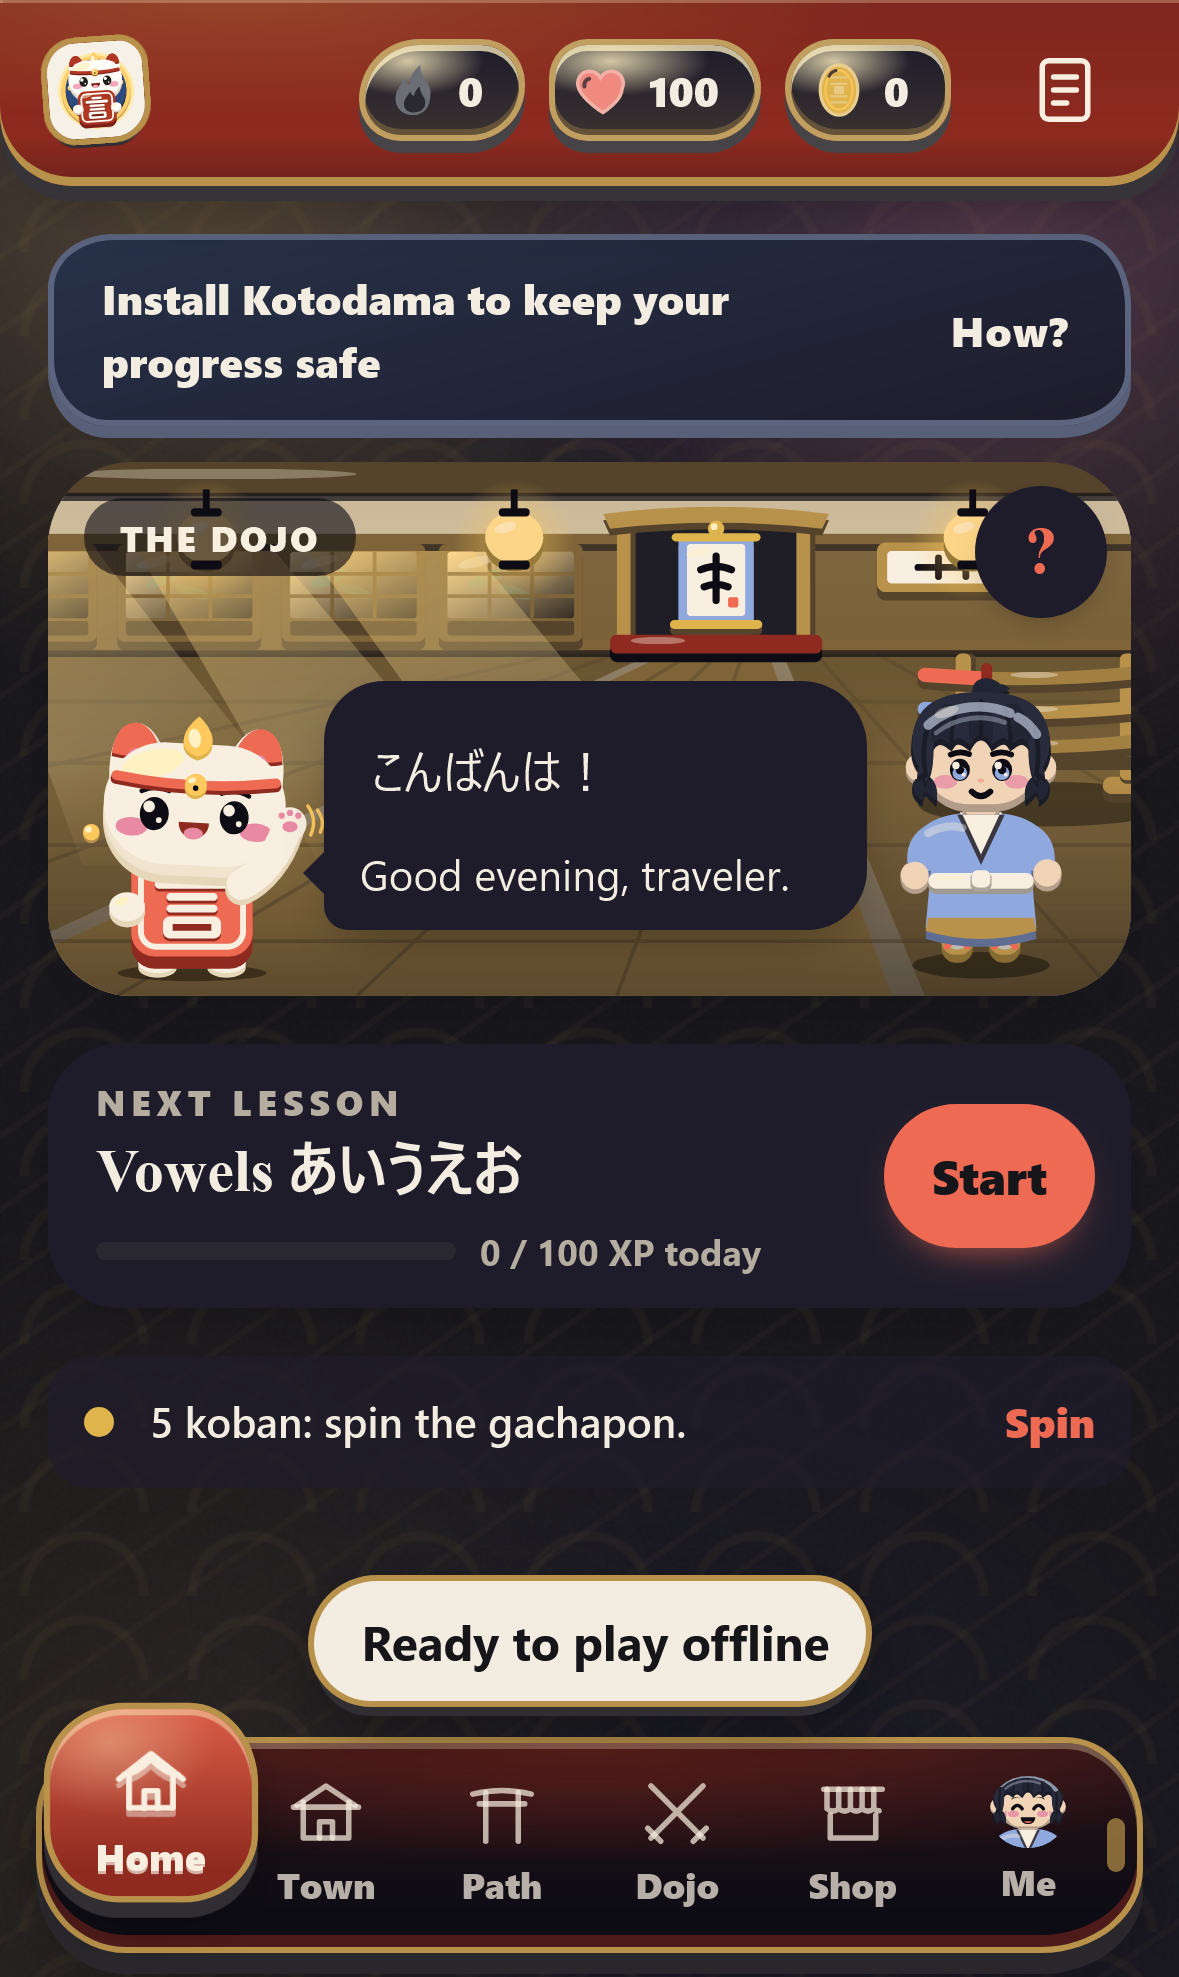
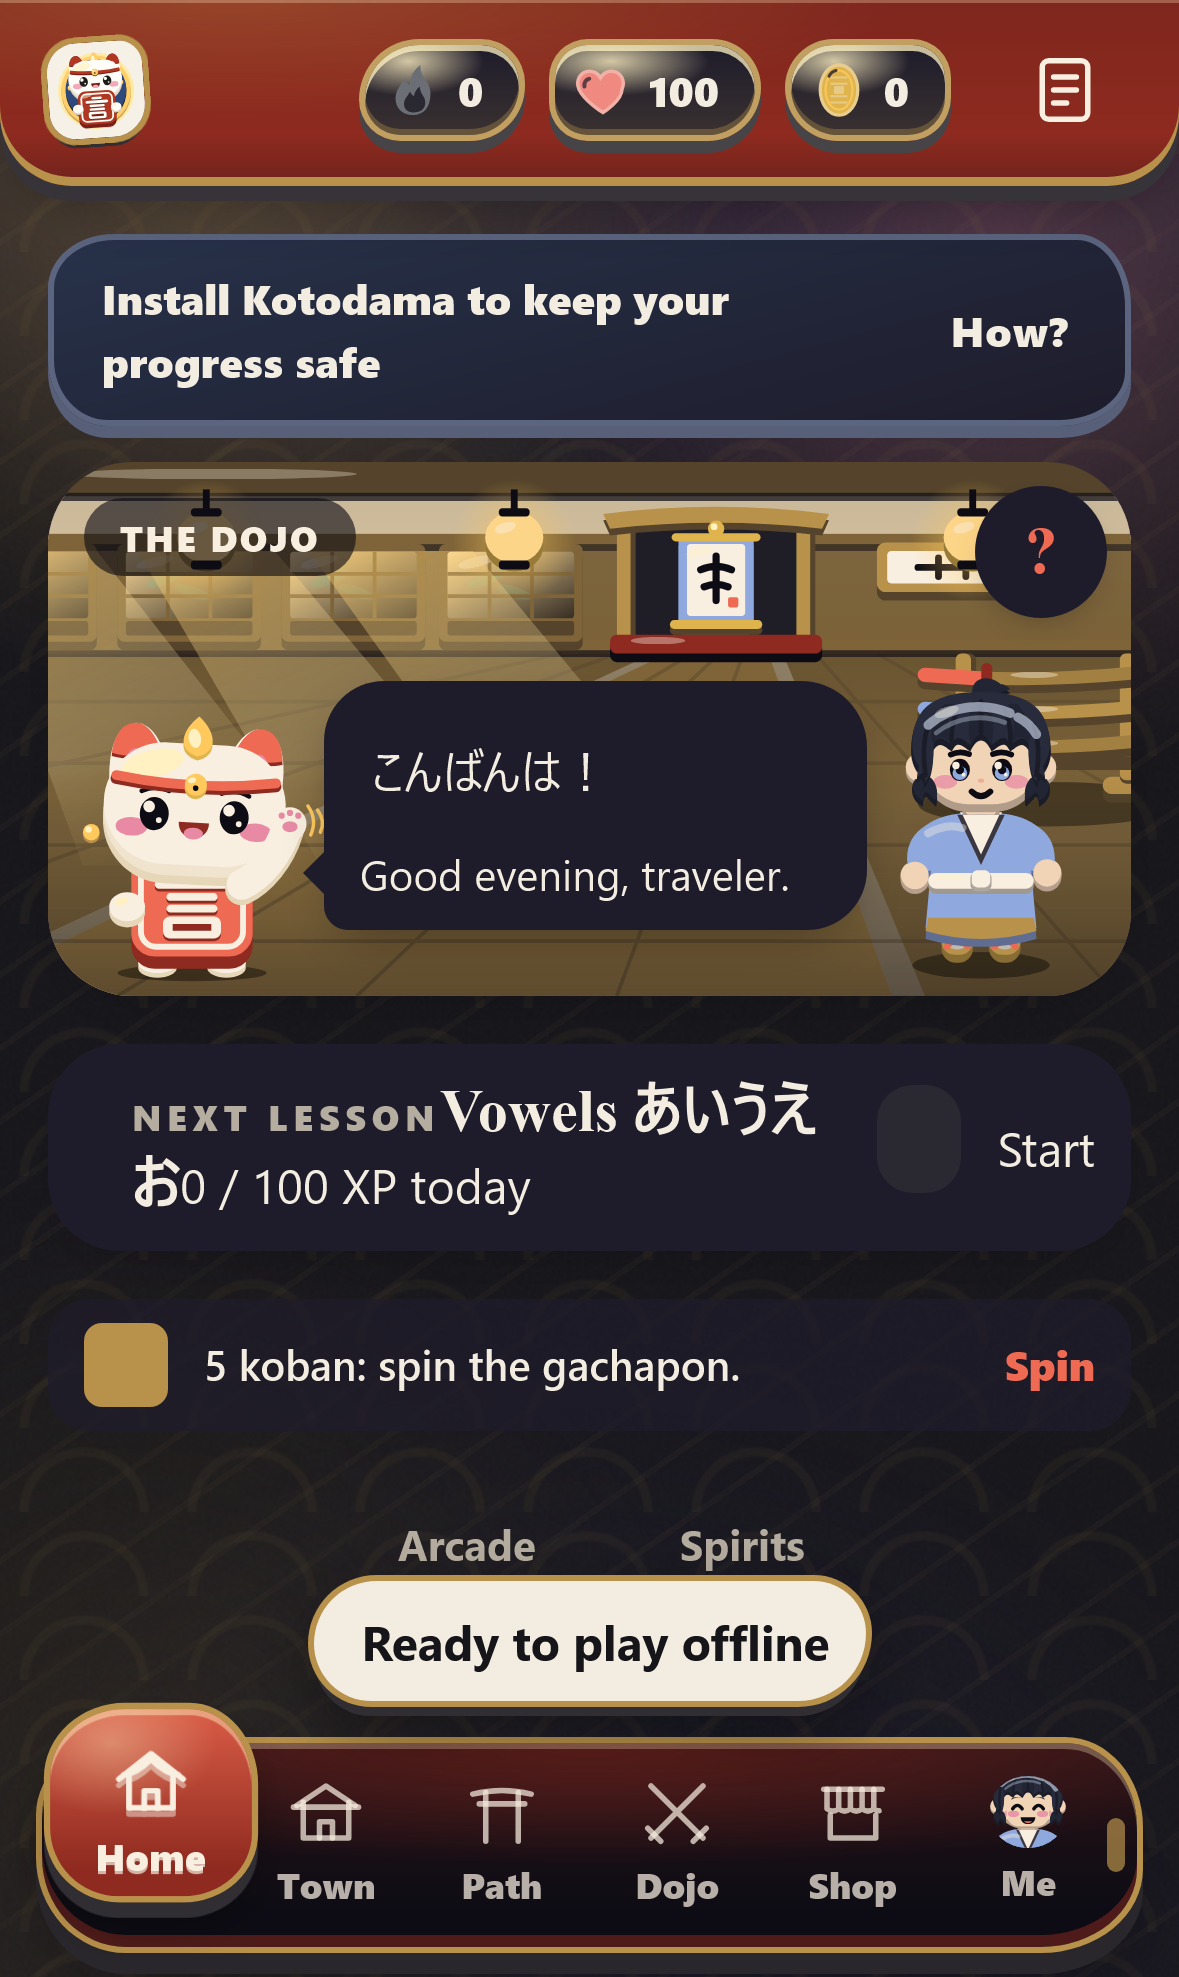
refactor(home): object UI scaffold for the art pass (noren, lantern, ema, omamori)
By Alyssa's AI. Logic, links and labels live in src/features/home/parts; the visuals are
placeholders for Argon to draw.

diff --git a/src/features/home/HomeScreen.tsx b/src/features/home/HomeScreen.tsx
@@ -1,15 +1,17 @@
 import { TourButton } from '../tour/Tour';
-import { Link } from 'react-router';
 import { useGame } from '../../foundations/store/gameStore';
 import { isUnlocked } from '../../engine/game';
 import { regionForUnit, regions } from '../../foundations/world';
 import { useSave, useStats } from '../hooks';
 import { Avatar } from '../avatar/Avatar';
-import { Slot } from '../../foundations/slots/Slot';
 import { SpeakableJa } from '../../foundations/japanese/Ja';
 import { Mascot } from '../../foundations/art/Mascot';
 import { DojoHallBackdrop, MarketStreetBackdrop } from '../lesson/BattleBackdrops';
-import { useDesk, type DeskNote } from './desk';
+import { useDesk } from './desk';
+import { NorenContinue } from './parts/NorenContinue';
+import { EmaNudge } from './parts/EmaNudge';
+import { Omamori } from './parts/Omamori';
+import { PlaceSign, SceneEave } from './parts/SceneFrame';
 import './home.css';
 
 function greeting(hour: number): { ja: string; en: string } {
@@ -493,31 +495,6 @@ function HomeCampDiorama({
  * Today's goal as a Chibi Shrine Chōchin Lantern that fills with warm golden spirit fire
  * as `pct` rises from 0% to 100%. Pure inline SVG with +3 shade lips and top-left highlight.
  */
-/** One reminder: a link when it goes somewhere, a button when it acts in place. */
-function Nudge({ note }: { note: DeskNote }) {
-  const body = (
-    <>
-      <span className="home-nudge-dot" aria-hidden="true" />
-      <span className="home-nudge-text">{note.text}</span>
-      {note.cta && <span className="home-nudge-cta">{note.cta}</span>}
-    </>
-  );
-  const cls = `home-nudge tone-${note.tone}`;
-  if (note.to)
-    return (
-      <Link className={cls} to={note.to} onClick={note.act}>
-        {body}
-      </Link>
-    );
-  if (note.act)
-    return (
-      <button type="button" className={cls} onClick={note.act}>
-        {body}
-      </button>
-    );
-  return <div className={cls}>{body}</div>;
-}
-
 /**
  * Home is one screen with one job: a scene of where you are in the story, one button to keep
  * going, and at most three reminders that only appear when something needs you. Stats live in
@@ -569,7 +546,8 @@ export function HomeScreen() {
           />
         )}
         <div className="home-scene-floor" aria-hidden="true" />
-        <p className="home-place">{region.en}</p>
+        <SceneEave />
+        <PlaceSign place={region.en} />
         <TourButton />
         <div className="home-koto">
           <Mascot
@@ -589,52 +567,47 @@ export function HomeScreen() {
       </section>
 
       {next ? (
-        <Link
-          className="next-card home-continue"
+        <NorenContinue
           to={next.href}
-          aria-label={`${save.lessonCount ? 'Continue' : 'Start your first lesson'}: ${next.title}`}
-        >
-          <span className="home-continue-copy">
-            <span className="eyebrow">
-              {next.kind === 'checkpoint' ? 'Boss ahead' : 'Next lesson'}
-            </span>
-            <span className="home-continue-title">{next.title}</span>
-            <Slot slot="streak.extend" fire={save.streak.lastGoalDay} className="home-goal">
-              <span className="home-goal-bar" role="img" aria-label={`Daily goal ${goalPct}%`}>
-                <span style={{ transform: `scaleX(${goalPct / 100})` }} />
-              </span>
-              <span className="home-goal-text">
-                {met ? 'Goal met today' : `${desk.status.todayXp} / ${desk.status.goal} XP today`}
-              </span>
-            </Slot>
-          </span>
-          <span className="home-continue-go" aria-hidden="true">
-            {save.lessonCount ? 'Continue' : 'Start'}
-          </span>
-        </Link>
+          label={`${save.lessonCount ? 'Continue' : 'Start your first lesson'}: ${next.title}`}
+          eyebrow={next.kind === 'checkpoint' ? 'Boss ahead' : 'Next lesson'}
+          title={next.title}
+          cta={save.lessonCount ? 'Continue' : 'Start'}
+          goalPct={goalPct}
+          goalText={
+            met ? 'Goal met today' : `${desk.status.todayXp} / ${desk.status.goal} XP today`
+          }
+          goalFire={save.streak.lastGoalDay}
+        />
       ) : (
-        <Link className="next-card home-continue" to="/packs">
-          <span className="home-continue-copy">
-            <span className="eyebrow">All caught up</span>
-            <span className="home-continue-title">Every lesson is done</span>
-          </span>
-          <span className="home-continue-go">Add a pack</span>
-        </Link>
+        <NorenContinue
+          to="/packs"
+          label="Add a lesson pack"
+          eyebrow="All caught up"
+          title="Every lesson is done"
+          cta="Add a pack"
+          goalPct={null}
+          goalText=""
+        />
       )}
 
       {notes.length > 0 && (
         <div className="home-nudges" role="list" aria-label="Needs you">
           {notes.map((n) => (
             <div role="listitem" key={n.id}>
-              <Nudge note={n} />
+              <EmaNudge note={n} />
             </div>
           ))}
         </div>
       )}
 
       <nav className="home-more" aria-label="More to play">
-        <Link to="/modes">Arcade</Link>
-        <Link to="/collection">Spirits{spiritCount ? ` · ${spiritCount} awake` : ''}</Link>
+        <Omamori to="/modes" kind="arcade" label="Arcade" />
+        <Omamori
+          to="/collection"
+          kind="spirits"
+          label={`Spirits${spiritCount ? ` · ${spiritCount} awake` : ''}`}
+        />
       </nav>
     </div>
   );

diff --git a/src/features/home/parts/NorenContinue.tsx b/src/features/home/parts/NorenContinue.tsx
@@ -1,0 +1,50 @@
+/**
+ * The Continue control, drawn as a shop's noren curtain hanging under the Home scene: the next
+ * lesson is written on the cloth, today's goal hangs as a paper lantern on the rod, and the round
+ * hanko seal is the button. The whole curtain is one link.
+ */
+import { Link } from 'react-router';
+import { Slot } from '../../../foundations/slots/Slot';
+import { GoalLantern } from './GoalLantern';
+import './parts.css';
+
+export interface NorenContinueProps {
+  to: string;
+  /** Full accessible name, e.g. "Start your first lesson: Vowels あいうえお". */
+  label: string;
+  /** "Next lesson", "Boss ahead", "All caught up". */
+  eyebrow: string;
+  title: string;
+  /** Short word on the seal: "Start", "Continue", "Add a pack". */
+  cta: string;
+  /** 0..100, or null to hide the goal (nothing left to play). */
+  goalPct: number | null;
+  goalText: string;
+  /** Fires the streak animation slot when the day's goal is met. */
+  goalFire?: string | null;
+}
+
+export function NorenContinue(p: NorenContinueProps) {
+  return (
+    <Link className="next-card home-continue noren" to={p.to} aria-label={p.label}>
+      <span className="noren-rod" aria-hidden="true" />
+      <span className="noren-cloth">
+        <span className="eyebrow">{p.eyebrow}</span>
+        <span className="home-continue-title">{p.title}</span>
+        {p.goalPct !== null && (
+          <span className="noren-goal-text" aria-hidden="true">
+            {p.goalText}
+          </span>
+        )}
+      </span>
+      {p.goalPct !== null && (
+        <Slot slot="streak.extend" fire={p.goalFire ?? null} className="noren-lantern">
+          <GoalLantern pct={p.goalPct} />
+        </Slot>
+      )}
+      <span className="noren-seal" aria-hidden="true">
+        {p.cta}
+      </span>
+    </Link>
+  );
+}

diff --git a/src/features/home/parts/EmaNudge.tsx b/src/features/home/parts/EmaNudge.tsx
@@ -1,0 +1,50 @@
+/**
+ * One reminder, drawn as a wooden ema plaque hanging on a cord, with a drawn symbol for what it is
+ * about. A link when it goes somewhere, a button when it acts in place.
+ */
+import { Link } from 'react-router';
+import type { DeskNote } from '../desk';
+import './parts.css';
+
+/** Which symbol an ema shows, from the desk note's id. */
+export type EmaSymbol = 'meal' | 'flame' | 'spirit' | 'coins' | 'capsule' | 'scroll' | 'check';
+
+export function emaSymbol(id: string): EmaSymbol {
+  if (id.startsWith('hp')) return 'meal';
+  if (id === 'streak') return 'flame';
+  if (id === 'reviews') return 'spirit';
+  if (id === 'town') return 'coins';
+  if (id === 'koban') return 'capsule';
+  if (id === 'goal') return 'check';
+  return 'scroll';
+}
+
+export function EmaSymbolArt({ symbol }: { symbol: EmaSymbol }) {
+  return <span className={`ema-symbol ema-symbol-${symbol}`} aria-hidden="true" />;
+}
+
+export function EmaNudge({ note }: { note: DeskNote }) {
+  const body = (
+    <>
+      <span className="ema-plaque" aria-hidden="true">
+        <EmaSymbolArt symbol={emaSymbol(note.id)} />
+      </span>
+      <span className="home-nudge-text">{note.text}</span>
+      {note.cta && <span className="home-nudge-cta">{note.cta}</span>}
+    </>
+  );
+  const cls = `home-nudge ema tone-${note.tone}`;
+  if (note.to)
+    return (
+      <Link className={cls} to={note.to} onClick={note.act}>
+        {body}
+      </Link>
+    );
+  if (note.act)
+    return (
+      <button type="button" className={cls} onClick={note.act}>
+        {body}
+      </button>
+    );
+  return <div className={cls}>{body}</div>;
+}

diff --git a/src/features/home/parts/parts.css b/src/features/home/parts/parts.css
@@ -1,0 +1,38 @@
+/* Home's object UI: noren, lantern, ema, omamori, eave and signboard. Placeholder looks; the art
+   pass replaces them. Animate only transform and opacity. */
+
+.noren {
+  position: relative;
+}
+
+.goal-lantern {
+  position: relative;
+  display: inline-block;
+  width: 28px;
+  height: 36px;
+  overflow: hidden;
+  border-radius: 12px;
+  background: var(--c-surface-alt);
+}
+
+.goal-lantern-fill {
+  position: absolute;
+  inset: 0;
+  background: var(--c-glow);
+  transform-origin: 50% 100%;
+}
+
+.ema-plaque {
+  flex: none;
+  display: inline-block;
+  width: 28px;
+  height: 28px;
+  border-radius: 6px;
+  background: var(--c-panel-edge);
+}
+
+.omamori {
+  display: inline-flex;
+  align-items: center;
+  gap: var(--sp-2);
+}

diff --git a/src/features/home/parts/EmaNudge.test.ts b/src/features/home/parts/EmaNudge.test.ts
@@ -1,0 +1,15 @@
+import { describe, expect, it } from 'vitest';
+import { emaSymbol } from './EmaNudge';
+
+describe('ema symbols', () => {
+  it('draws the symbol that matches each reminder', () => {
+    expect(emaSymbol('hp-low')).toBe('meal');
+    expect(emaSymbol('hp-out')).toBe('meal');
+    expect(emaSymbol('streak')).toBe('flame');
+    expect(emaSymbol('reviews')).toBe('spirit');
+    expect(emaSymbol('town')).toBe('coins');
+    expect(emaSymbol('koban')).toBe('capsule');
+    expect(emaSymbol('goal')).toBe('check');
+    expect(emaSymbol('notice-0')).toBe('scroll');
+  });
+});

diff --git a/src/features/home/parts/Omamori.tsx b/src/features/home/parts/Omamori.tsx
@@ -1,0 +1,20 @@
+/** A side destination drawn as an omamori charm: Arcade and Spirits, which the tab bar doesn't reach. */
+import { Link } from 'react-router';
+import './parts.css';
+
+export function Omamori({
+  to,
+  kind,
+  label,
+}: {
+  to: string;
+  kind: 'arcade' | 'spirits';
+  label: string;
+}) {
+  return (
+    <Link className={`omamori omamori-${kind}`} to={to}>
+      <span className="omamori-charm" aria-hidden="true" />
+      <span className="omamori-label">{label}</span>
+    </Link>
+  );
+}

diff --git a/src/features/home/parts/GoalLantern.tsx b/src/features/home/parts/GoalLantern.tsx
@@ -1,0 +1,9 @@
+/** Today's goal as a paper lantern: its light fills from the bottom as XP comes in. */
+export function GoalLantern({ pct }: { pct: number }) {
+  const p = Math.max(0, Math.min(100, pct));
+  return (
+    <span className="goal-lantern" role="img" aria-label={`Daily goal ${p}%`}>
+      <span className="goal-lantern-fill" style={{ transform: `scaleY(${p / 100})` }} />
+    </span>
+  );
+}

diff --git a/src/features/home/parts/SceneFrame.tsx b/src/features/home/parts/SceneFrame.tsx
@@ -1,0 +1,10 @@
+/** Dressing for the Home scene: a tiled eave along its top and a hanging signboard naming the place. */
+import './parts.css';
+
+export function SceneEave() {
+  return <span className="scene-eave" aria-hidden="true" />;
+}
+
+export function PlaceSign({ place }: { place: string }) {
+  return <p className="home-place place-sign">{place}</p>;
+}
